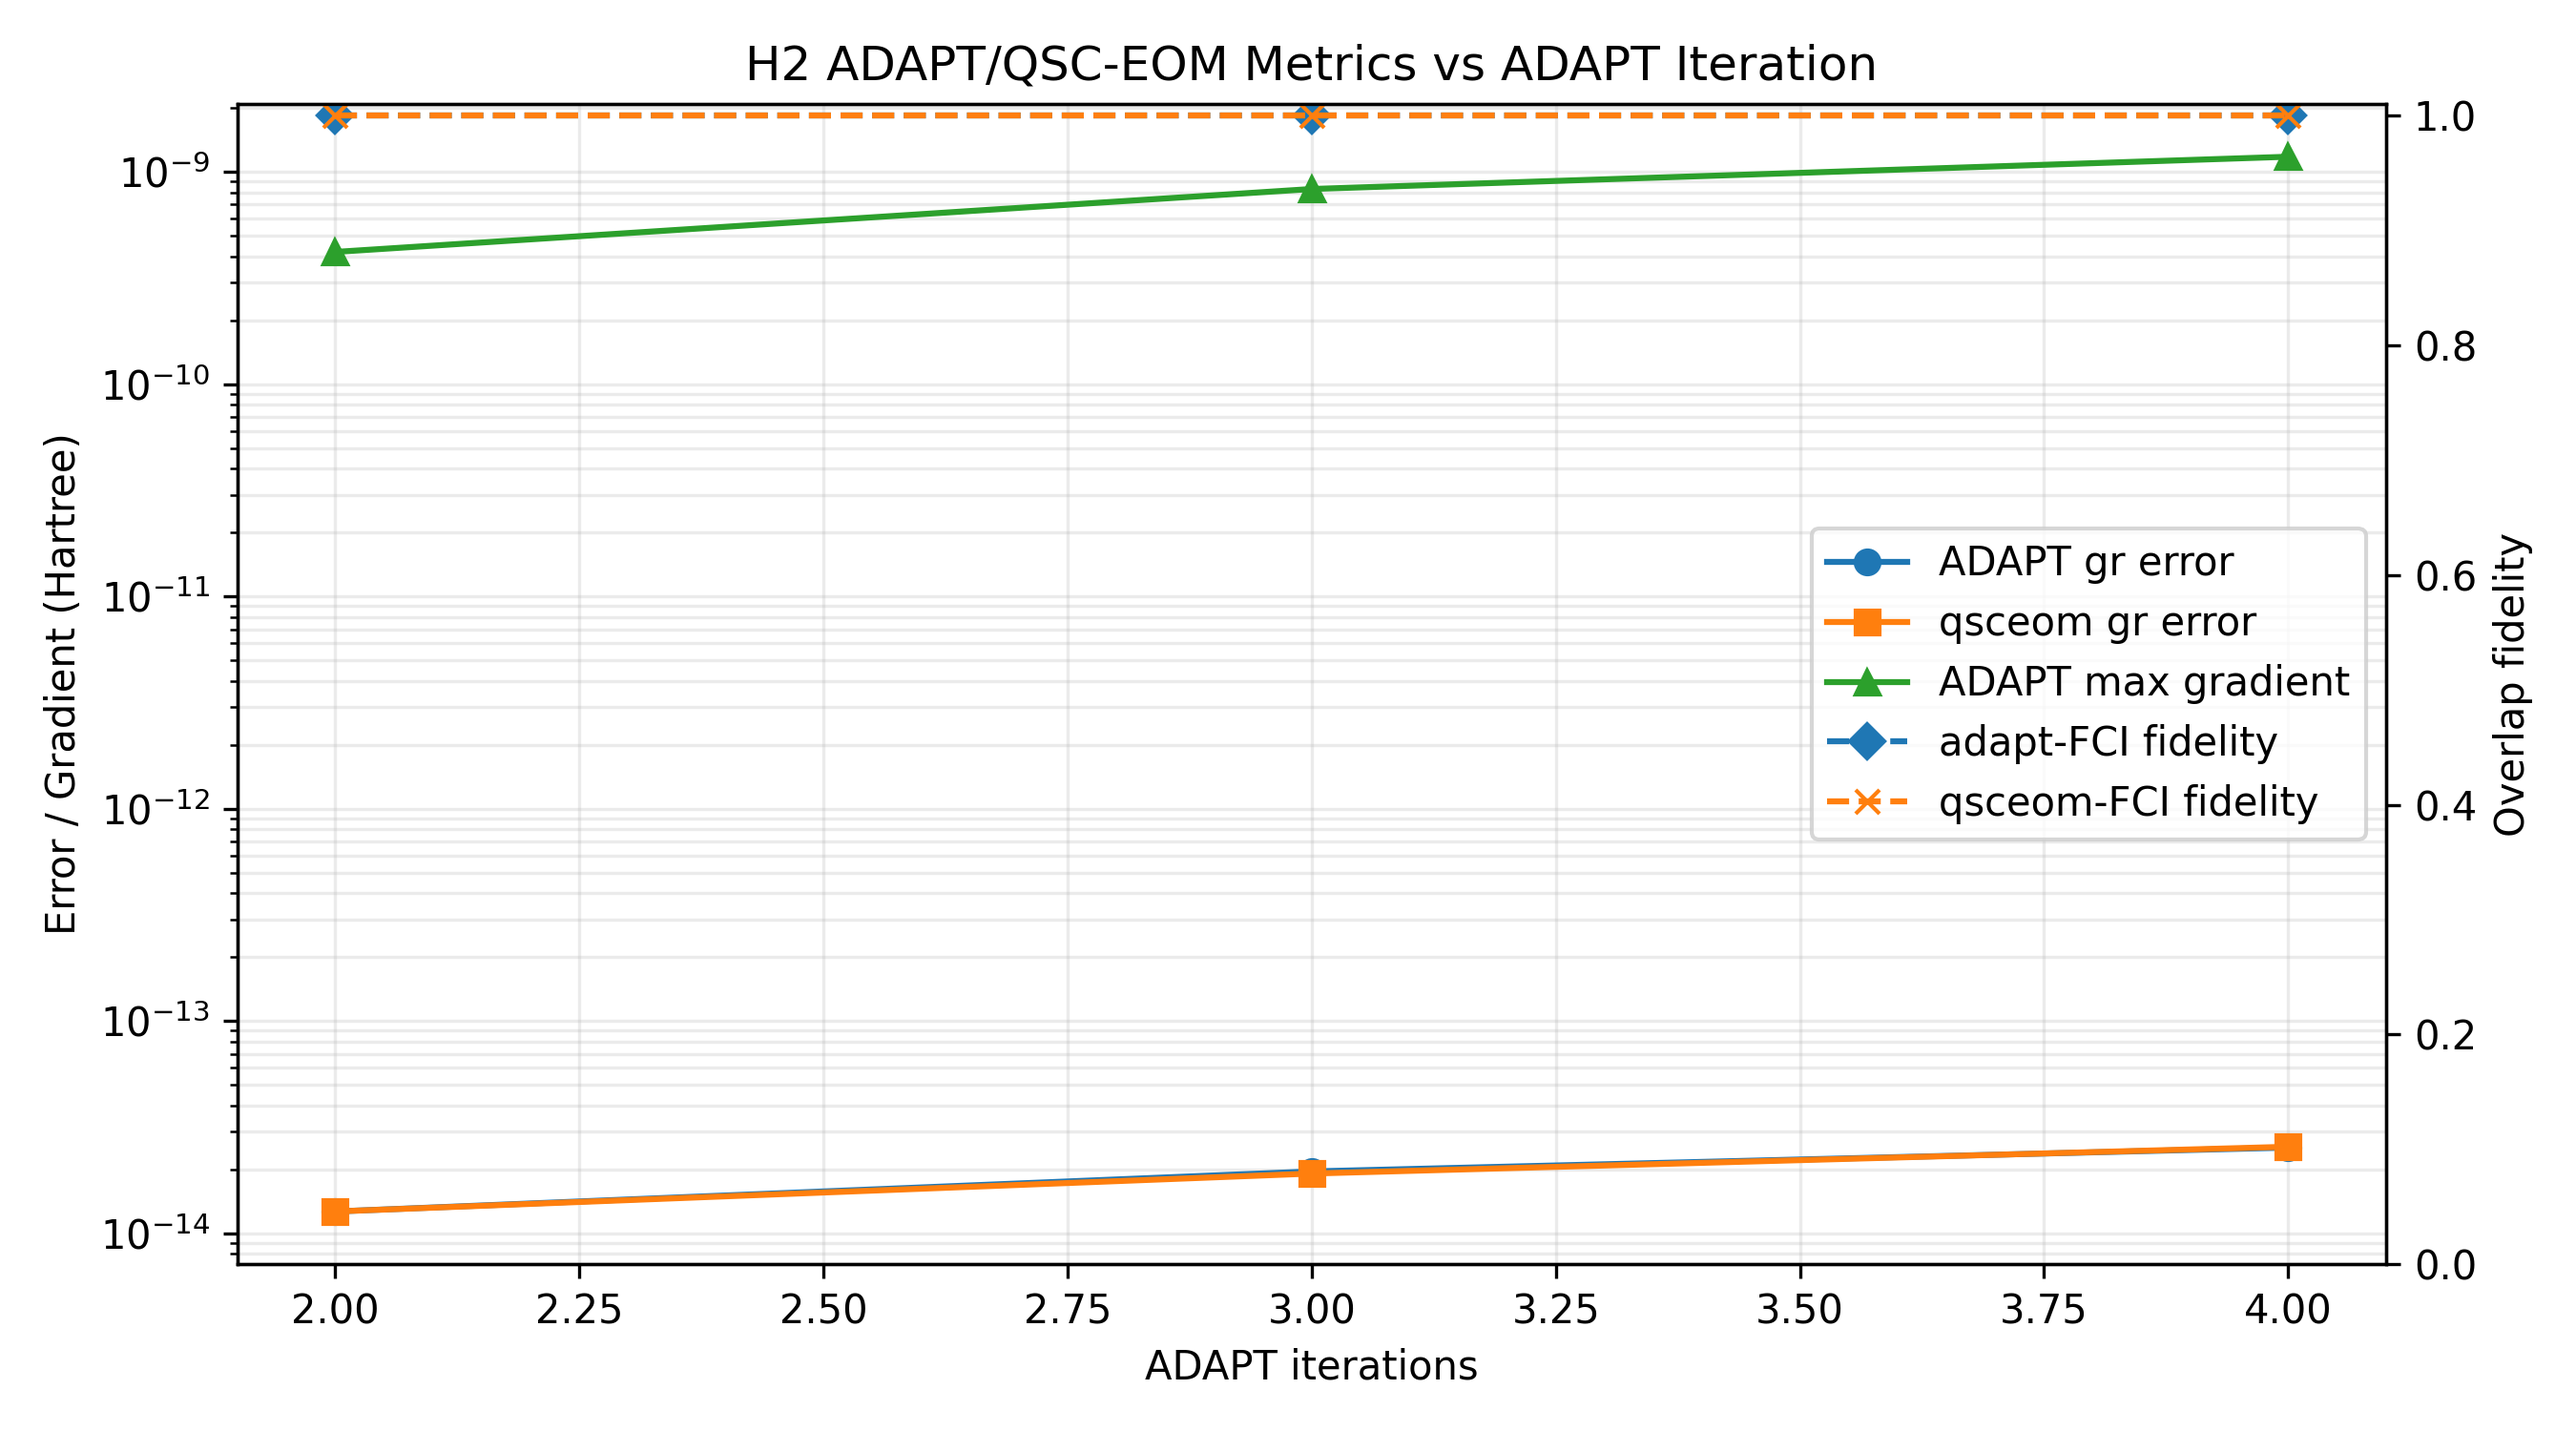
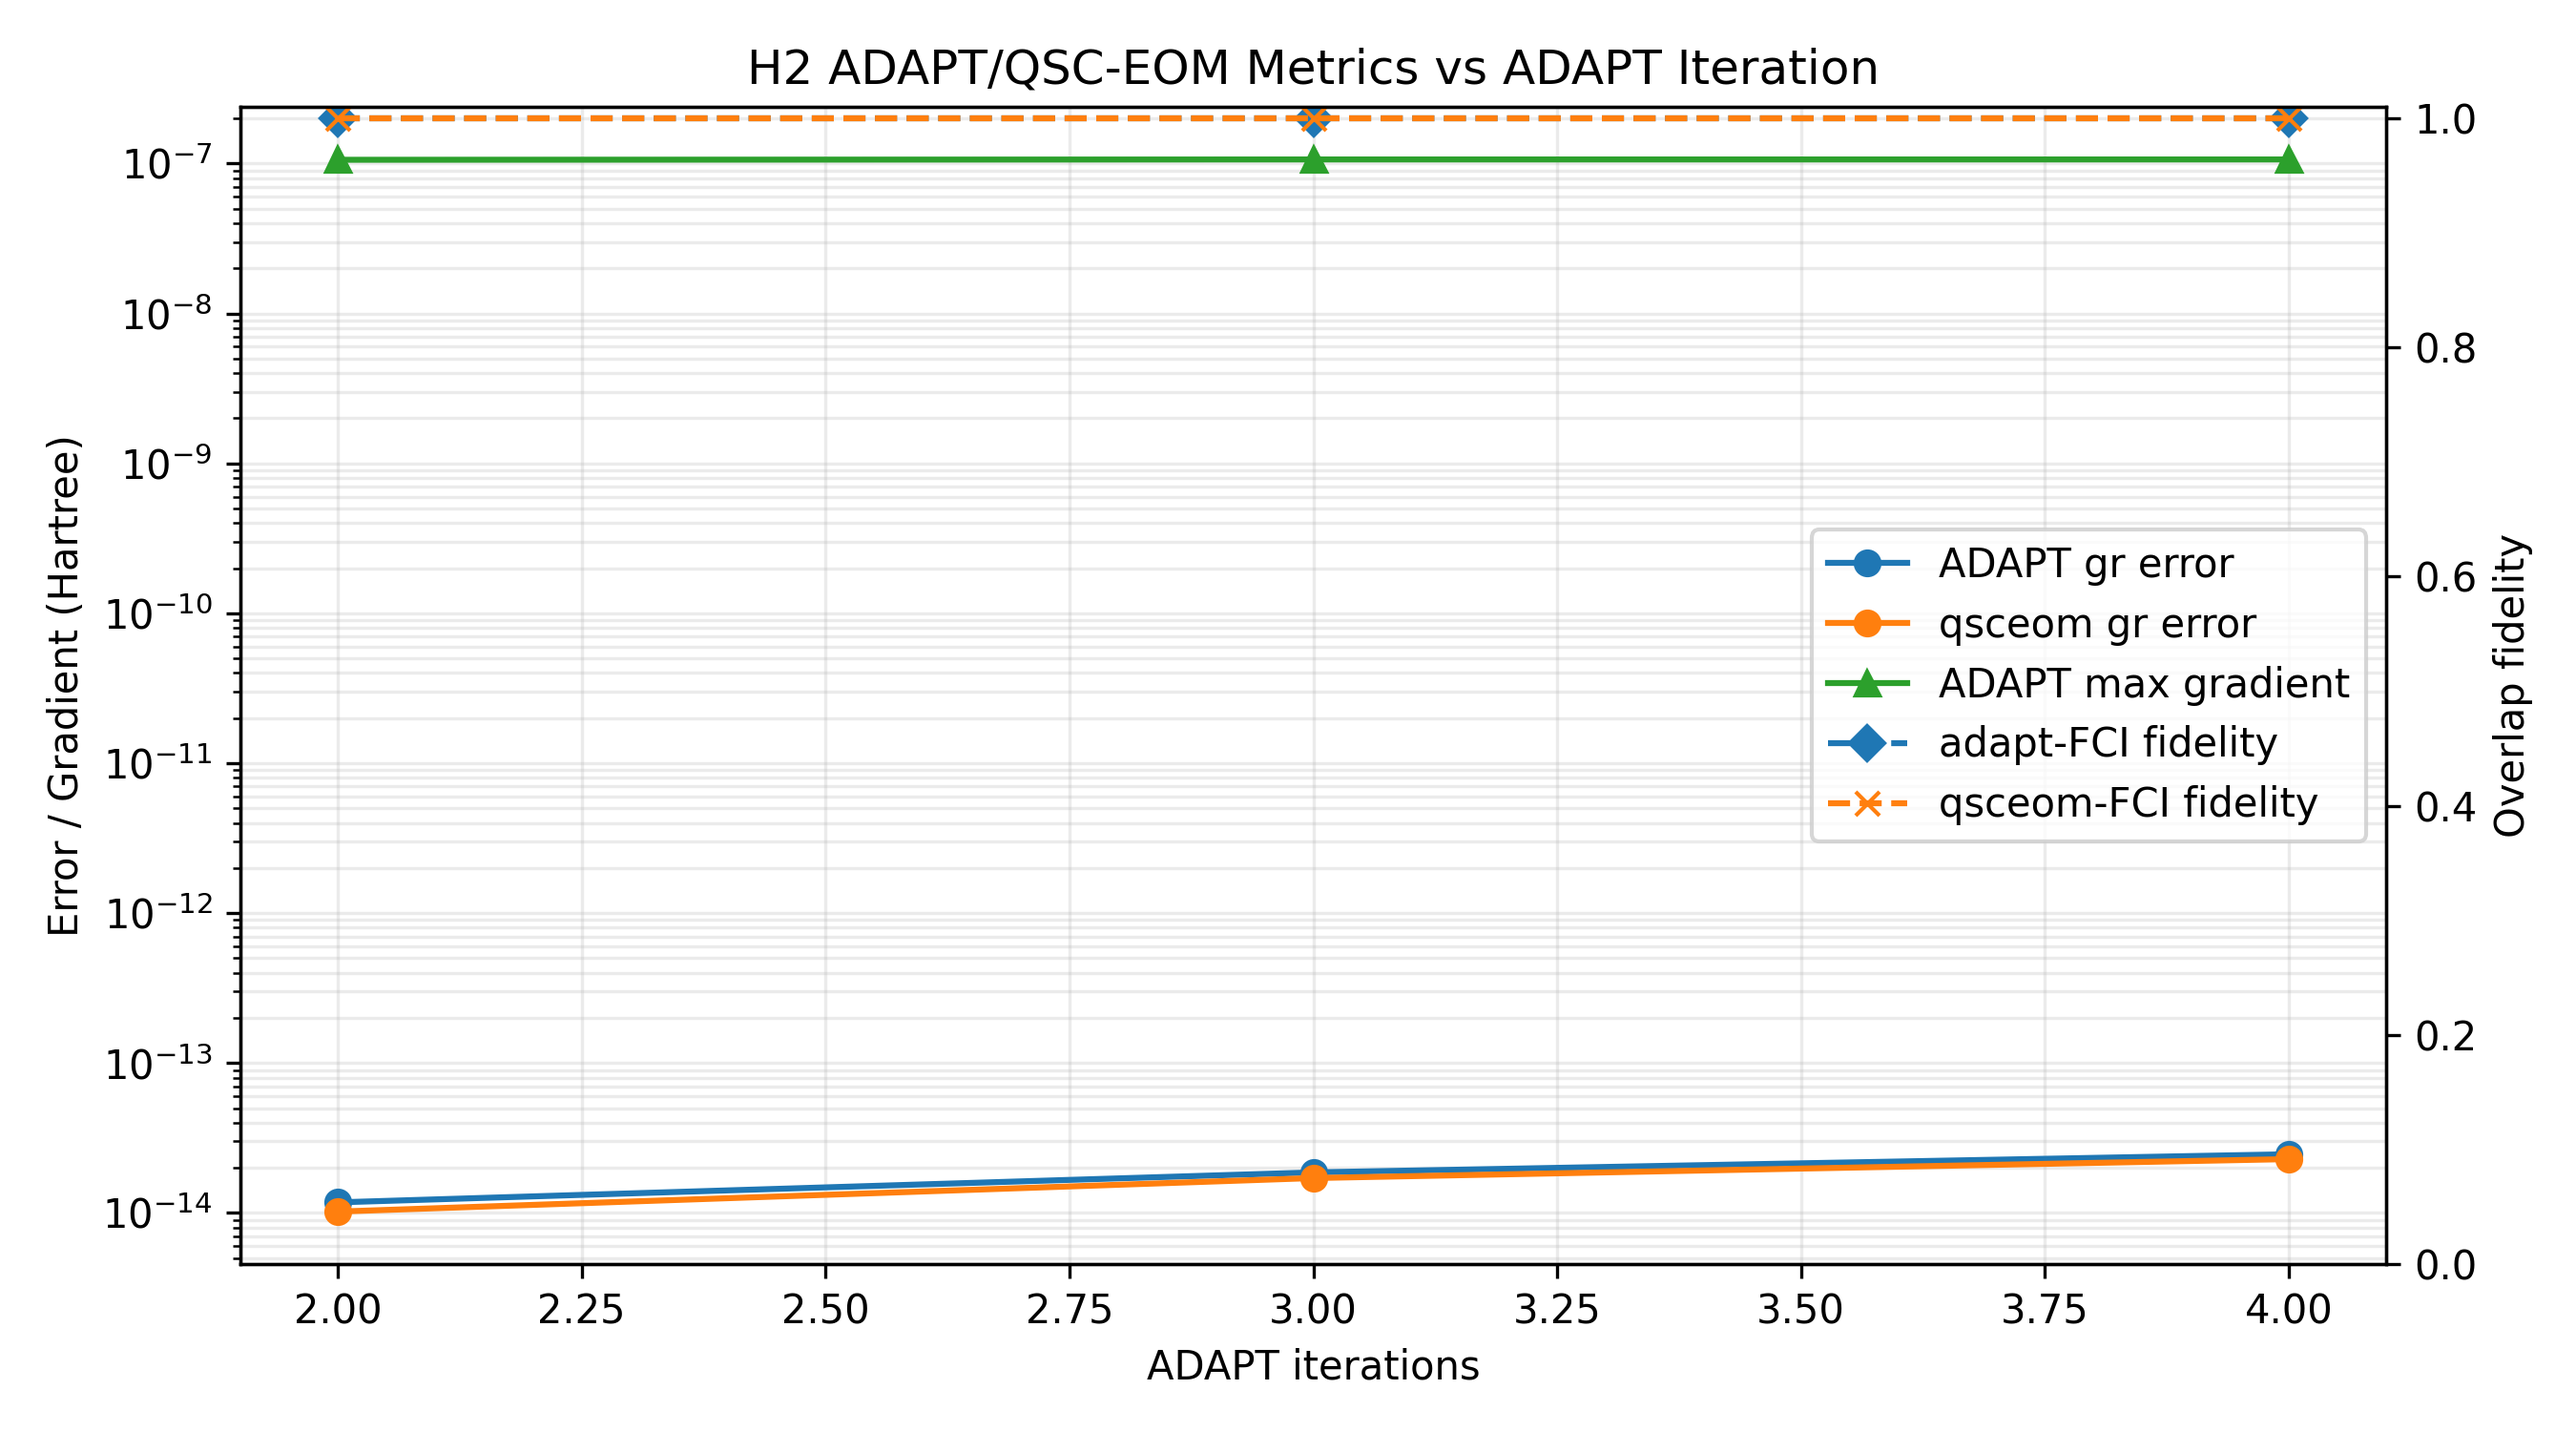
Save

diff --git a/qsceom/ground state/examples/H2/run_h2.py b/qsceom/ground state/examples/H2/run_h2.py
@@ -313,7 +313,7 @@ def _plot_metrics(
 
     x, y = _finite_xy(iterations, qsceom_errors)
     if y:
-        ln = ax1.plot(x, y, marker="s", label="qsceom gr error")[0]
+        ln = ax1.plot(x, y, marker="o", label="qsceom gr error")[0]
         lines.append(ln)
         labels.append(ln.get_label())
 

diff --git a/README.md b/README.md
@@ -17,3 +17,56 @@ Copyright (c) 2025, Prince Kwao
 Project based on the 
 [Computational Molecular Science Python Cookiecutter](https://github.com/molssi/cookiecutter-cms) version 1.11.
 # oak
+
+---
+
+# Expanded README
+
+Quantum chemistry workflows for near-term algorithms, focused on:
+- ADAPT-VQE and UCCSD ground-state preparation
+- QSC-EOM and QSE excited-state/response-style analysis
+- Finite-shot studies (mean/variance vs shot count)
+- Comparison against FCI references
+
+This repo includes runnable examples for H2, H4, H6, N2, and NH3.
+
+## Repository Layout
+
+- `qsceom/ground state/`: ADAPT-VQE and MPI QSC-EOM implementations, plus ground-state examples.
+- `qsceom/excited state/`: UCCSD and QSC-EOM excited-state modules and examples.
+- `qse/`: QSE implementation and shot-study scripts (`run_qseshots.py`, `ongoing_qse.py`).
+- `All/`: research notebooks and exploratory runs.
+
+## Environment
+
+`pyproject.toml` contains package metadata, but many scientific runtime dependencies are used directly by scripts. A typical environment needs:
+- `numpy`, `scipy`, `matplotlib`
+- `qiskit`, `qiskit-aer`, `qiskit-algorithms`, `qiskit-nature`
+- `pennylane`, `pennylane-lightning`
+- `pyscf`
+
+Example install:
+
+```bash
+pip install numpy scipy matplotlib qiskit qiskit-aer qiskit-algorithms qiskit-nature pennylane pennylane-lightning pyscf
+```
+
+## Quick Start
+
+Run from repo root:
+
+```bash
+python3 "qsceom/ground state/examples/H2/run_h2.py"
+python3 "qsceom/ground state/examples/H6/run_h6.py"
+python3 "qsceom/ground state/examples/shots/run_nh3_shots.py"
+python3 qse/run_qseshots.py
+```
+
+## Typical Outputs
+
+- Text summaries in `qsceom/ground state/examples/*` and `qse/`.
+- Plots in `qsceom/ground state/examples/*` and `qse/`.
+
+## Example Plot (H2)
+
+![H2 Error Plot](qsceom/ground%20state/examples/H2/h2_error_plot.png)
